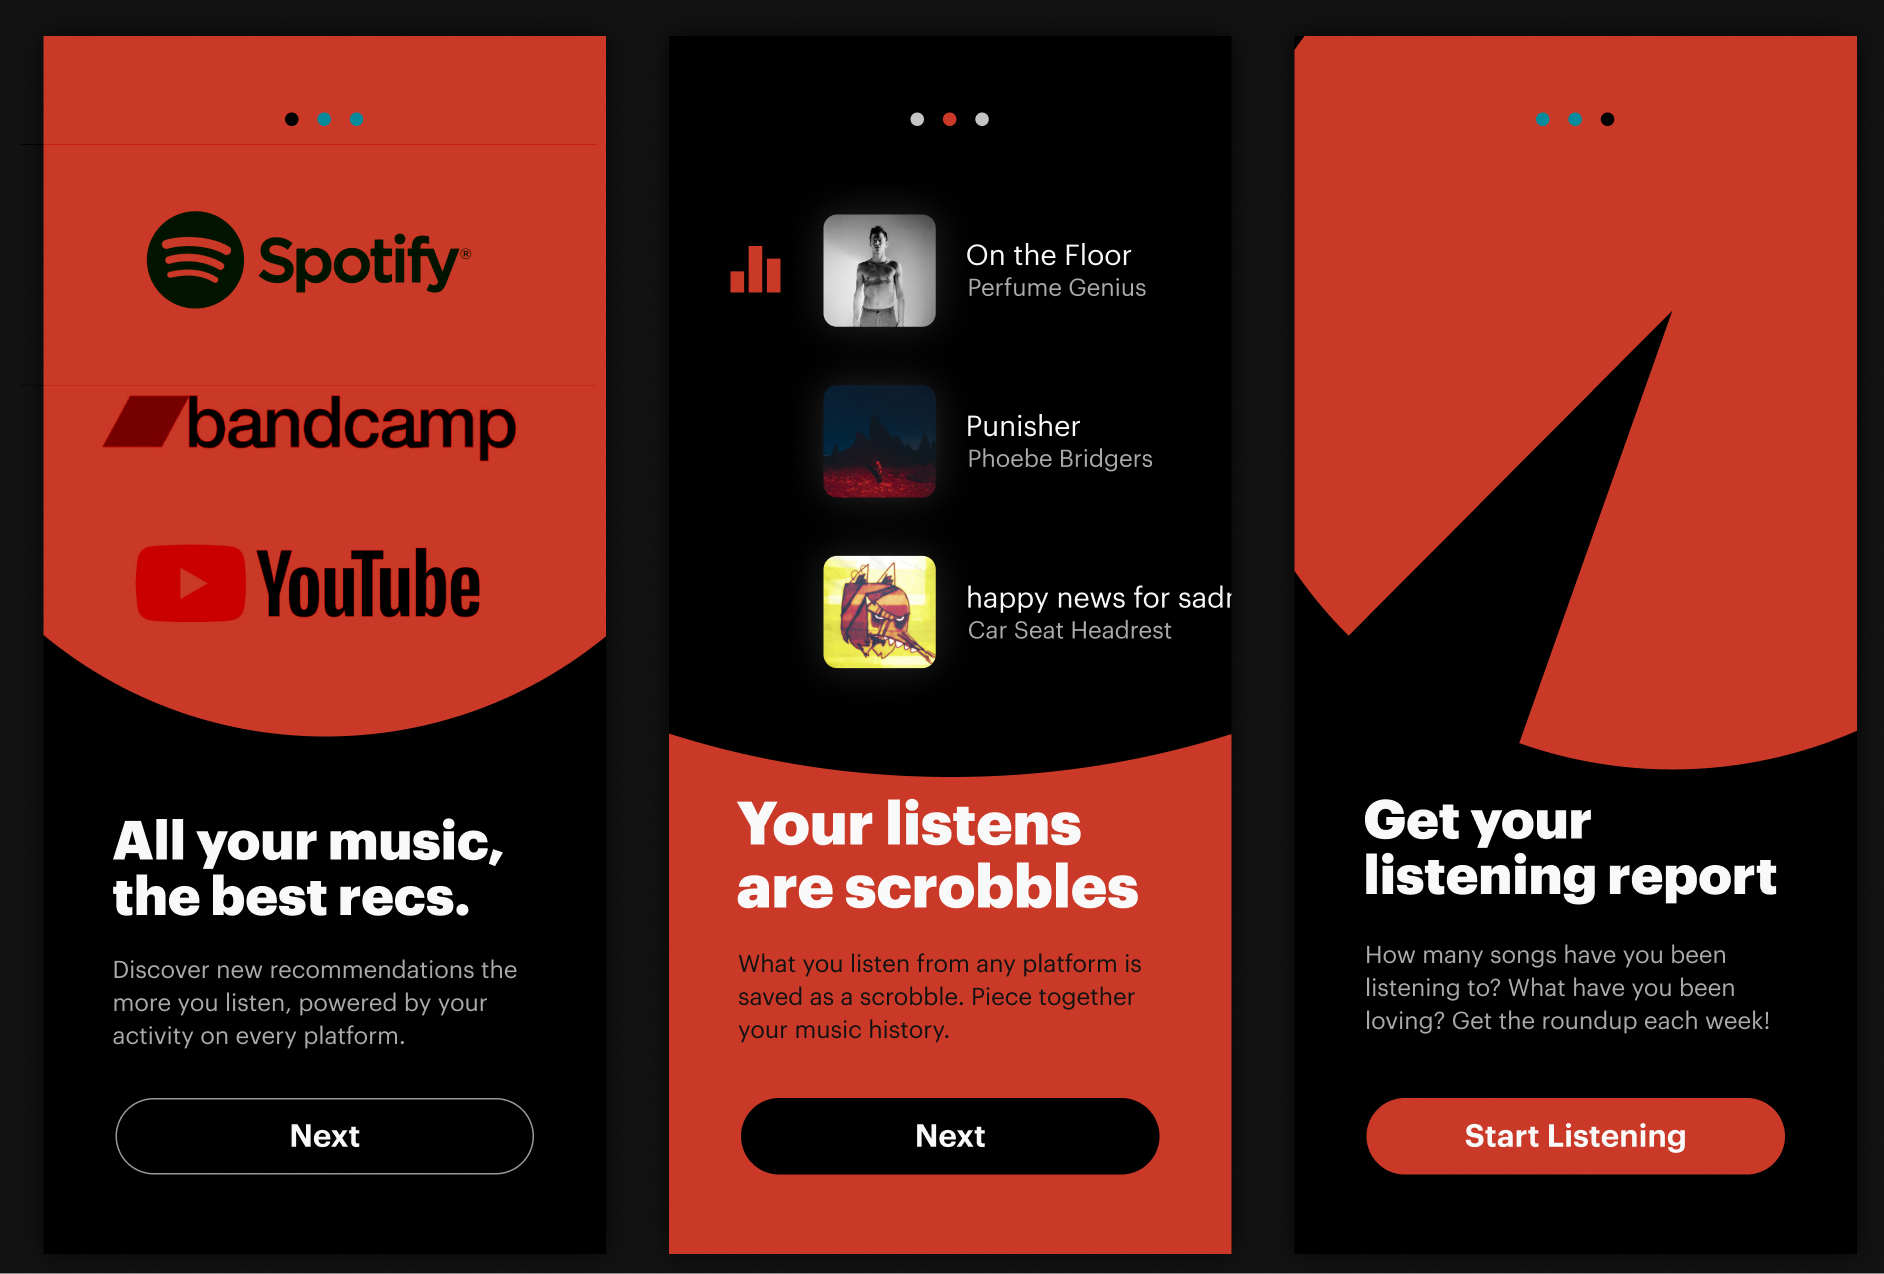
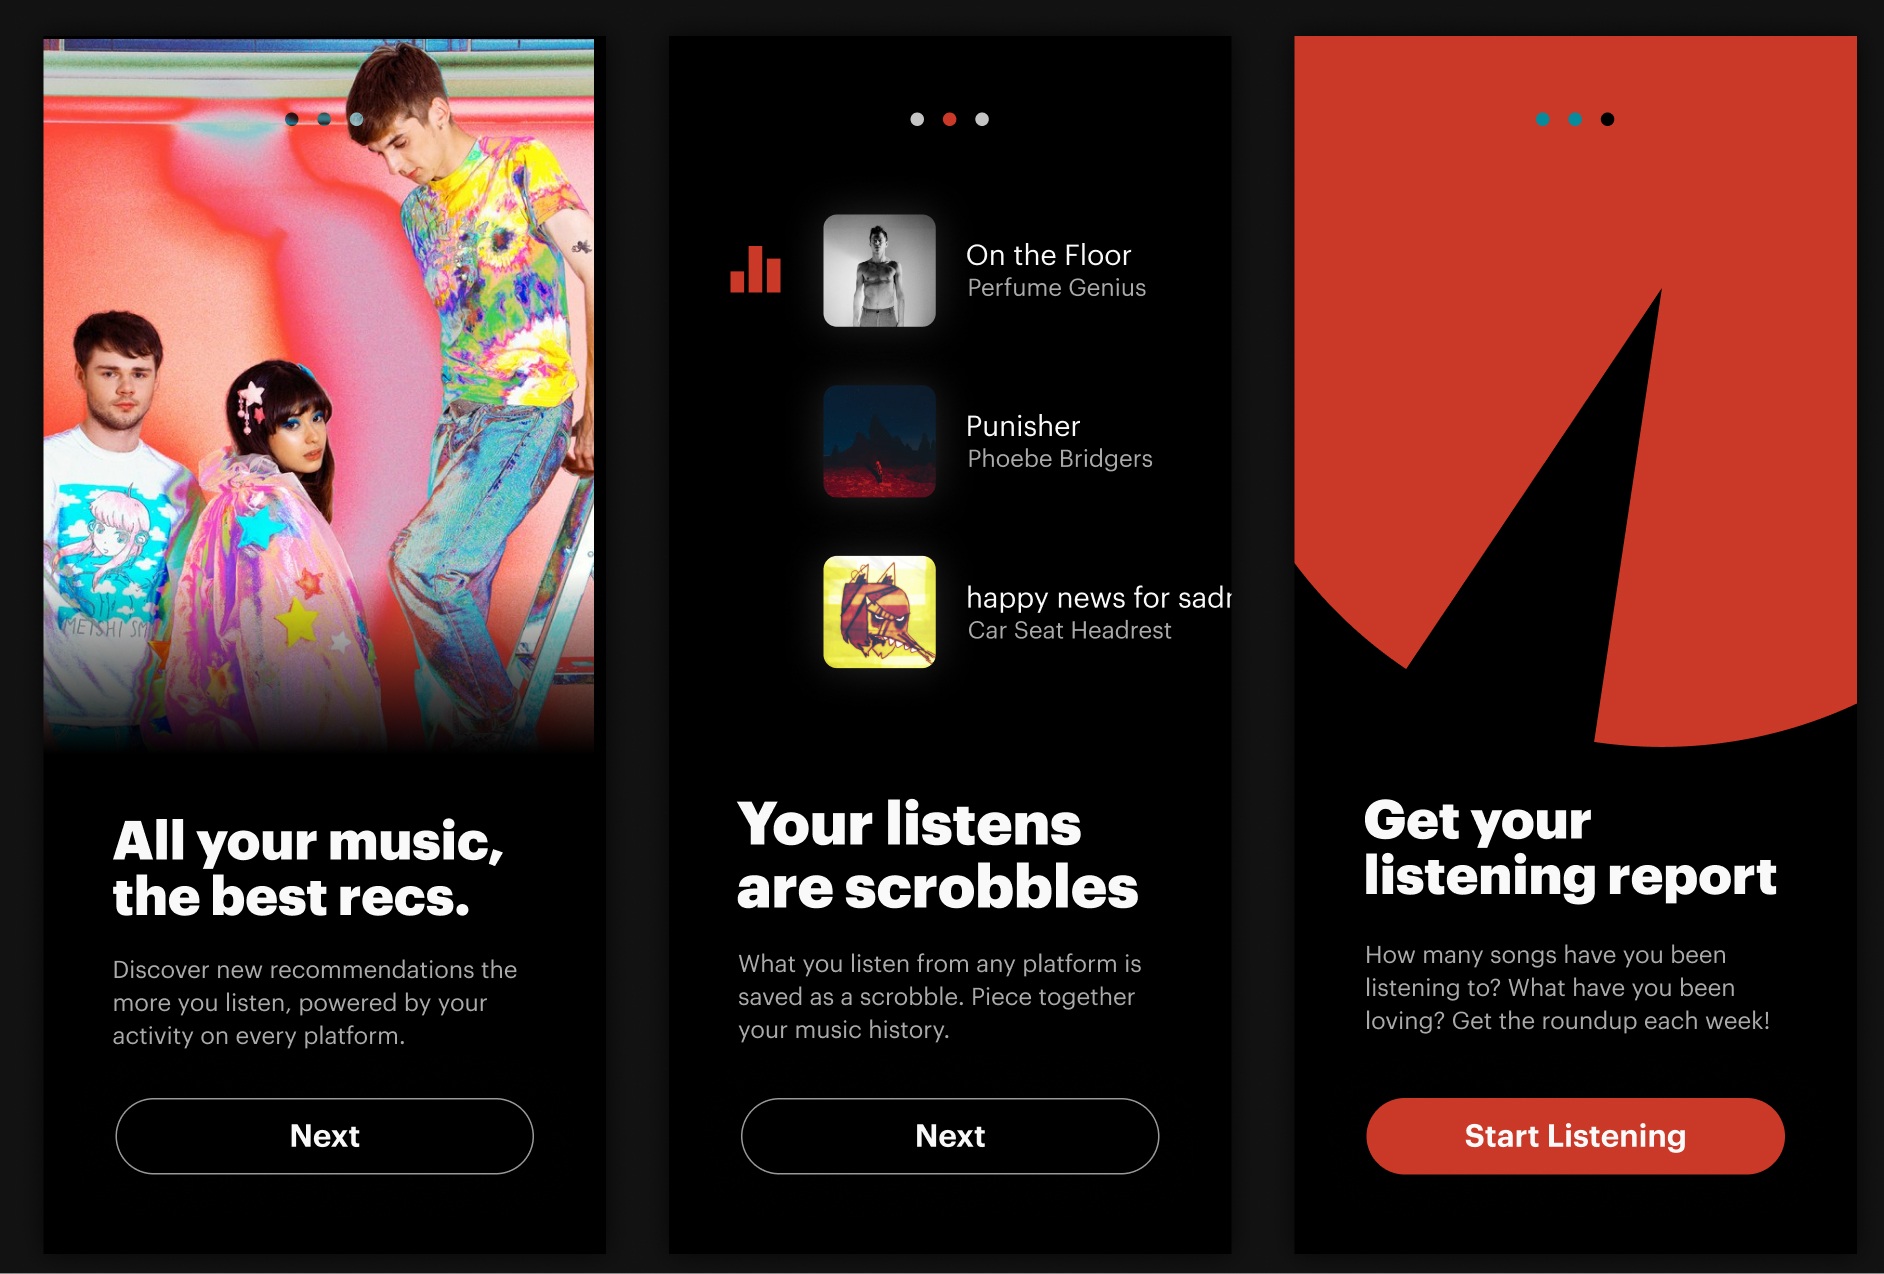
states

diff --git a/public/work/lastfm.html b/public/work/lastfm.html
@@ -396,20 +396,14 @@
 						</div>
 					</div>
           
-          <p>Here's a summary of the biggest introductions that the redesign brings us.</p>
           
+          
+          <h2>Redesigned Flow</h2>
           
 
 					<div class="image-container">
-						<img loading="lazy" class="image-full" src="../assets/portfolio/lastfm/overall-surface.jpg">
+						<img loading="lazy" class="image-full" src="../assets/portfolio/lastfm/screens.jpg">
 						<em>A look at main surface areas on the app</em>
-					</div>
-
-					<div class="image-container" style="margin:4em 0 2em 0;">
-
-						<img loading="lazy" class="image-full" src="../assets/portfolio/lastfm/screens-all.png">
-						<br>
-
 					</div>
 
 					<h2 id="part-prototype">Process</h2>
@@ -563,8 +557,13 @@
 					<span class="image-container">
 						<img loading="lazy" class="image-full" src="../assets/portfolio/lastfm/track-love.png" style="width:400px">
 						<em>Swipe to love interaction</em>
+            
+            <img loading="lazy" src="../assets/portfolio/lastfm/home-alt.jpg">
 					</span>
+        
+        <p>I crafted some empty states for the home page as well as a look at what the Settings screen (accessed at the top-right of home) can look like.</p>
 
+        
 					<hr>
         
         
